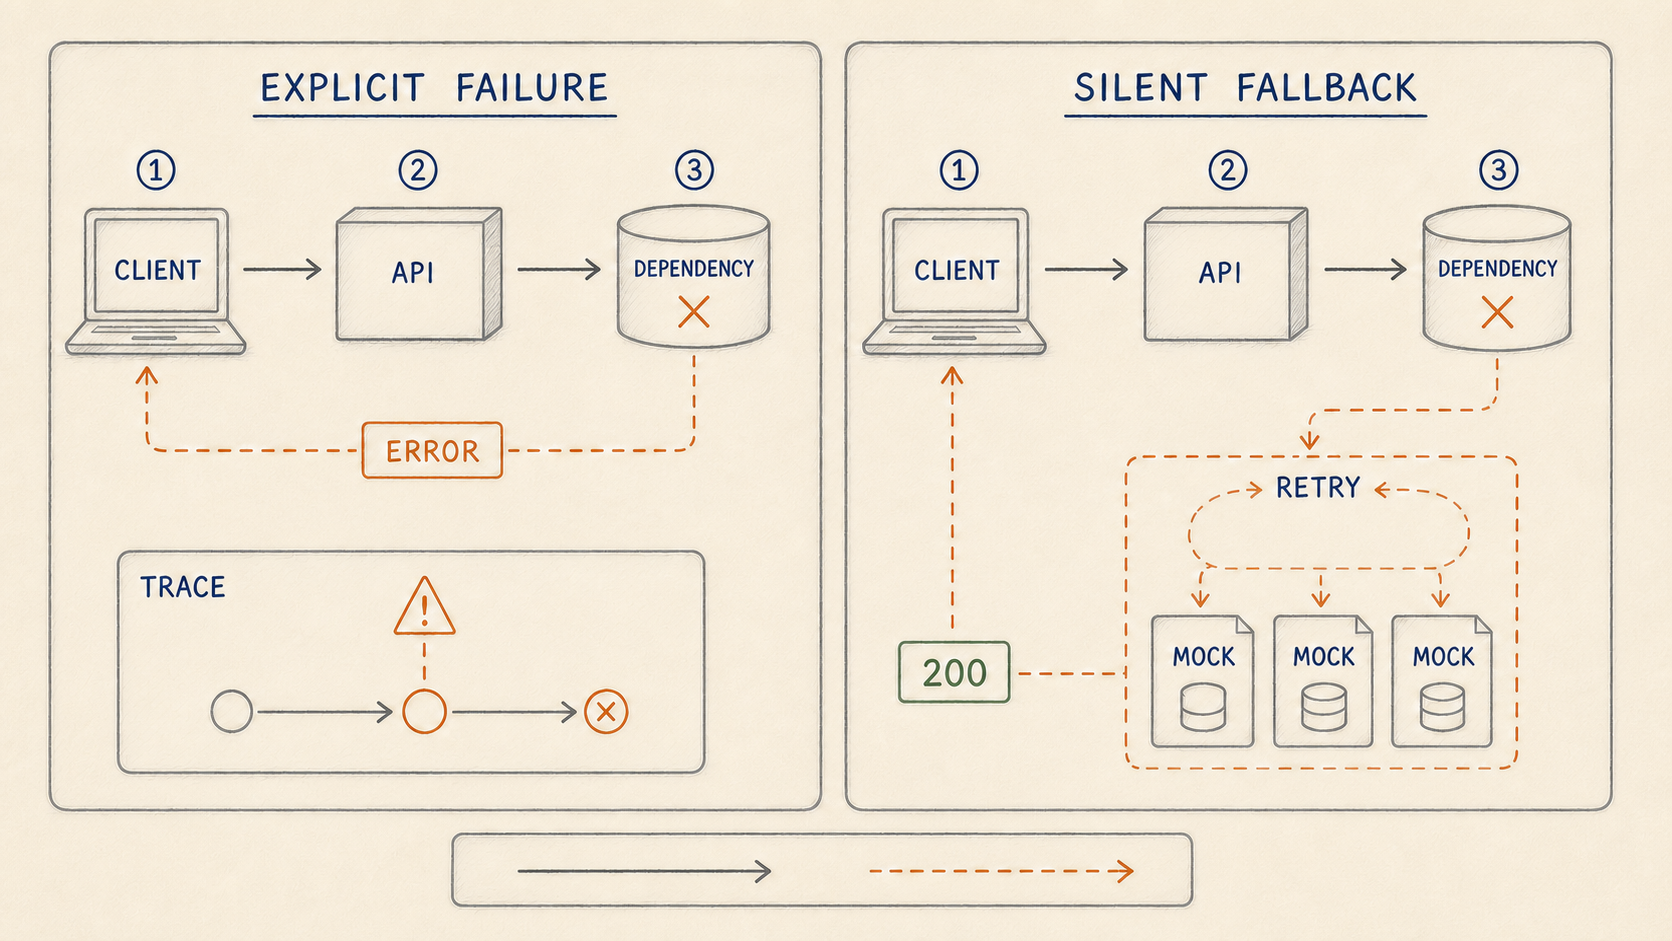
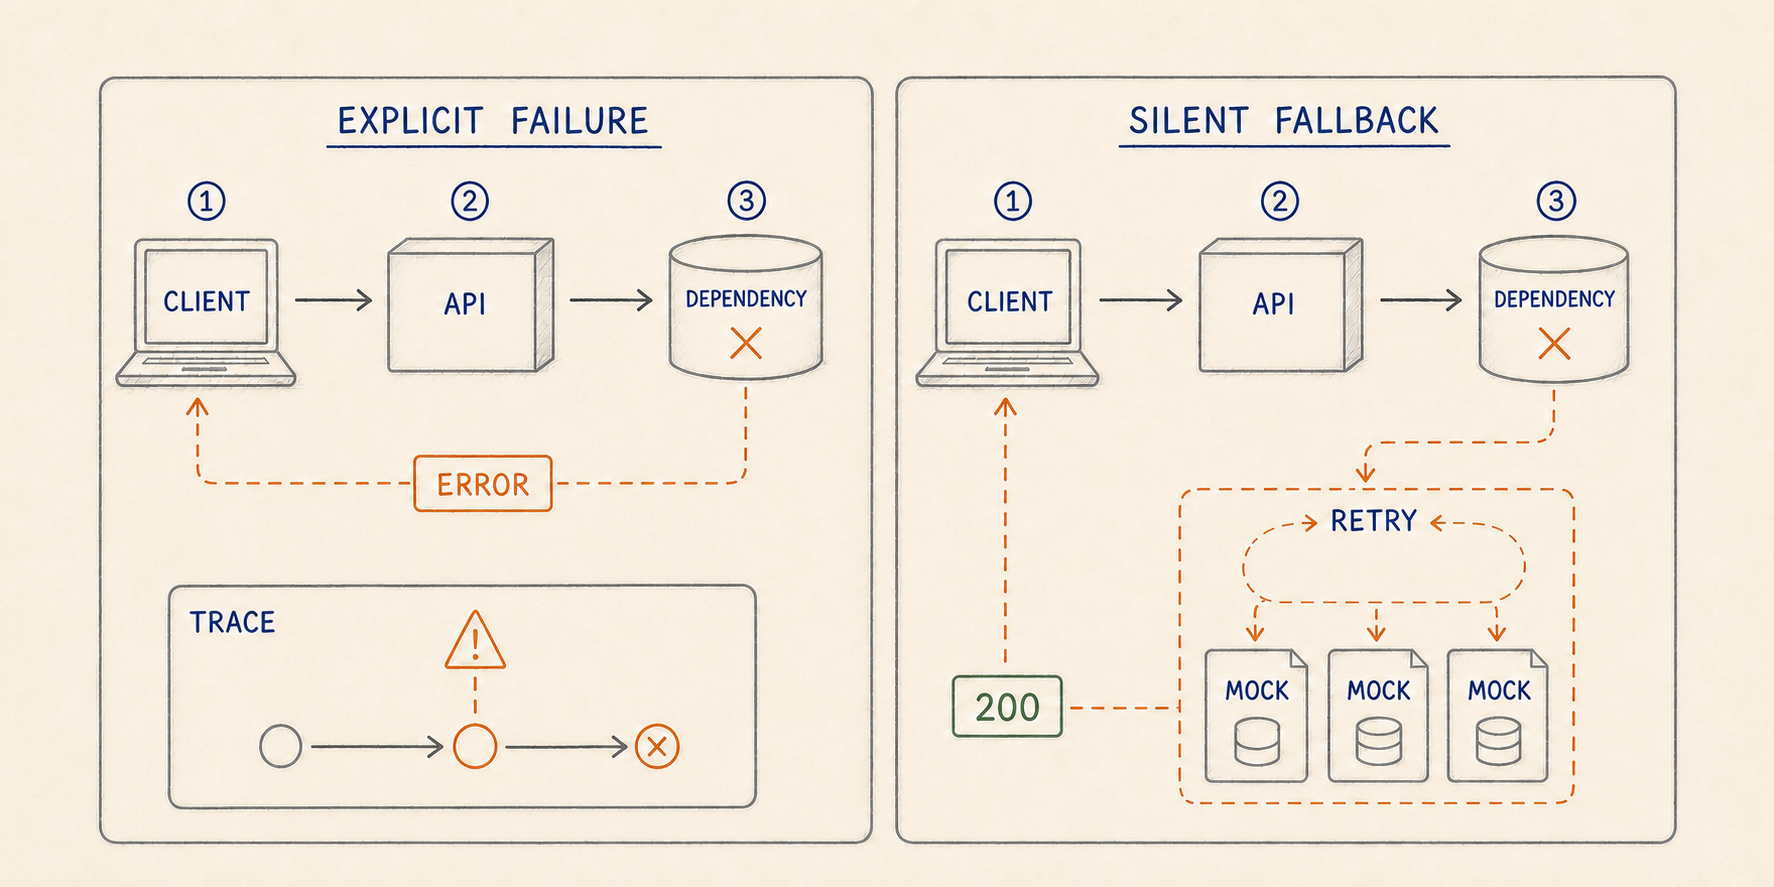
Fix image

diff --git a/src/styles/global.css b/src/styles/global.css
@@ -1714,6 +1714,13 @@ html[data-theme="light"] .prose td {
   box-shadow: var(--shadow);
 }
 
+/* The comparison diagram intentionally omits a legend, so crop its empty canvas edge. */
+.prose .article-figure--comparison img {
+  aspect-ratio: 2 / 1;
+  object-fit: cover;
+  object-position: center top;
+}
+
 .prose .article-figure figcaption {
   width: min(100%, 42rem);
   margin: 0.85rem auto 0;
